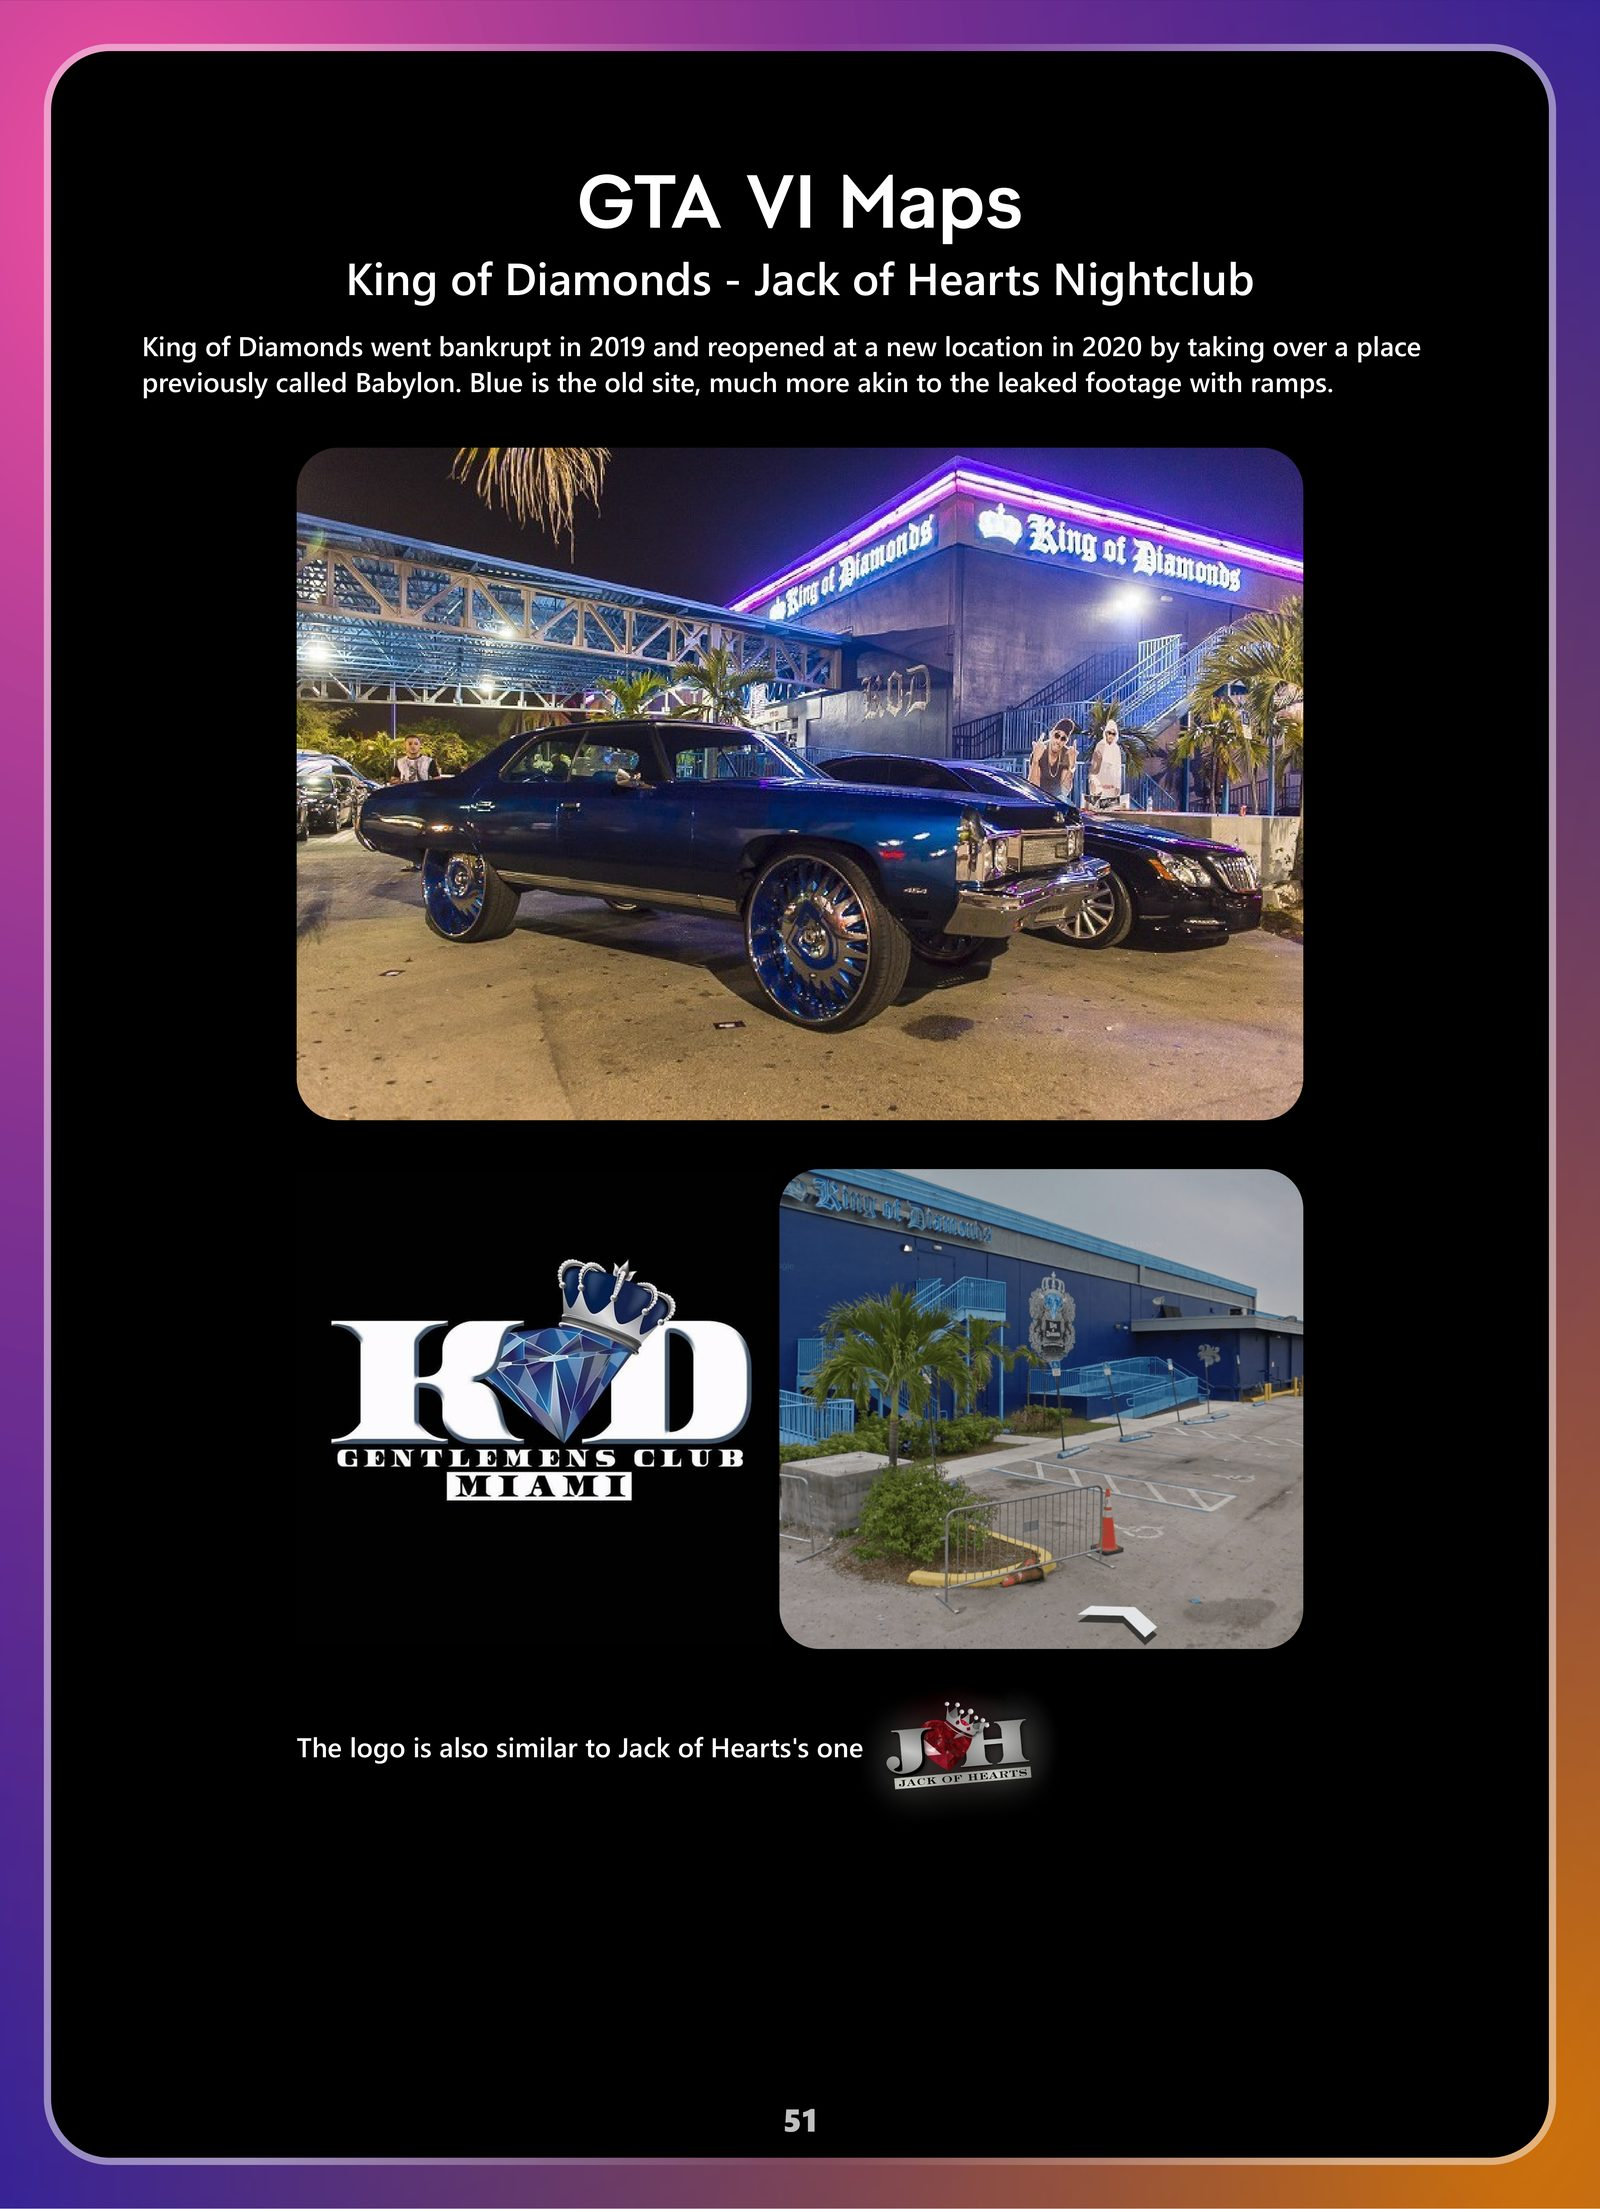
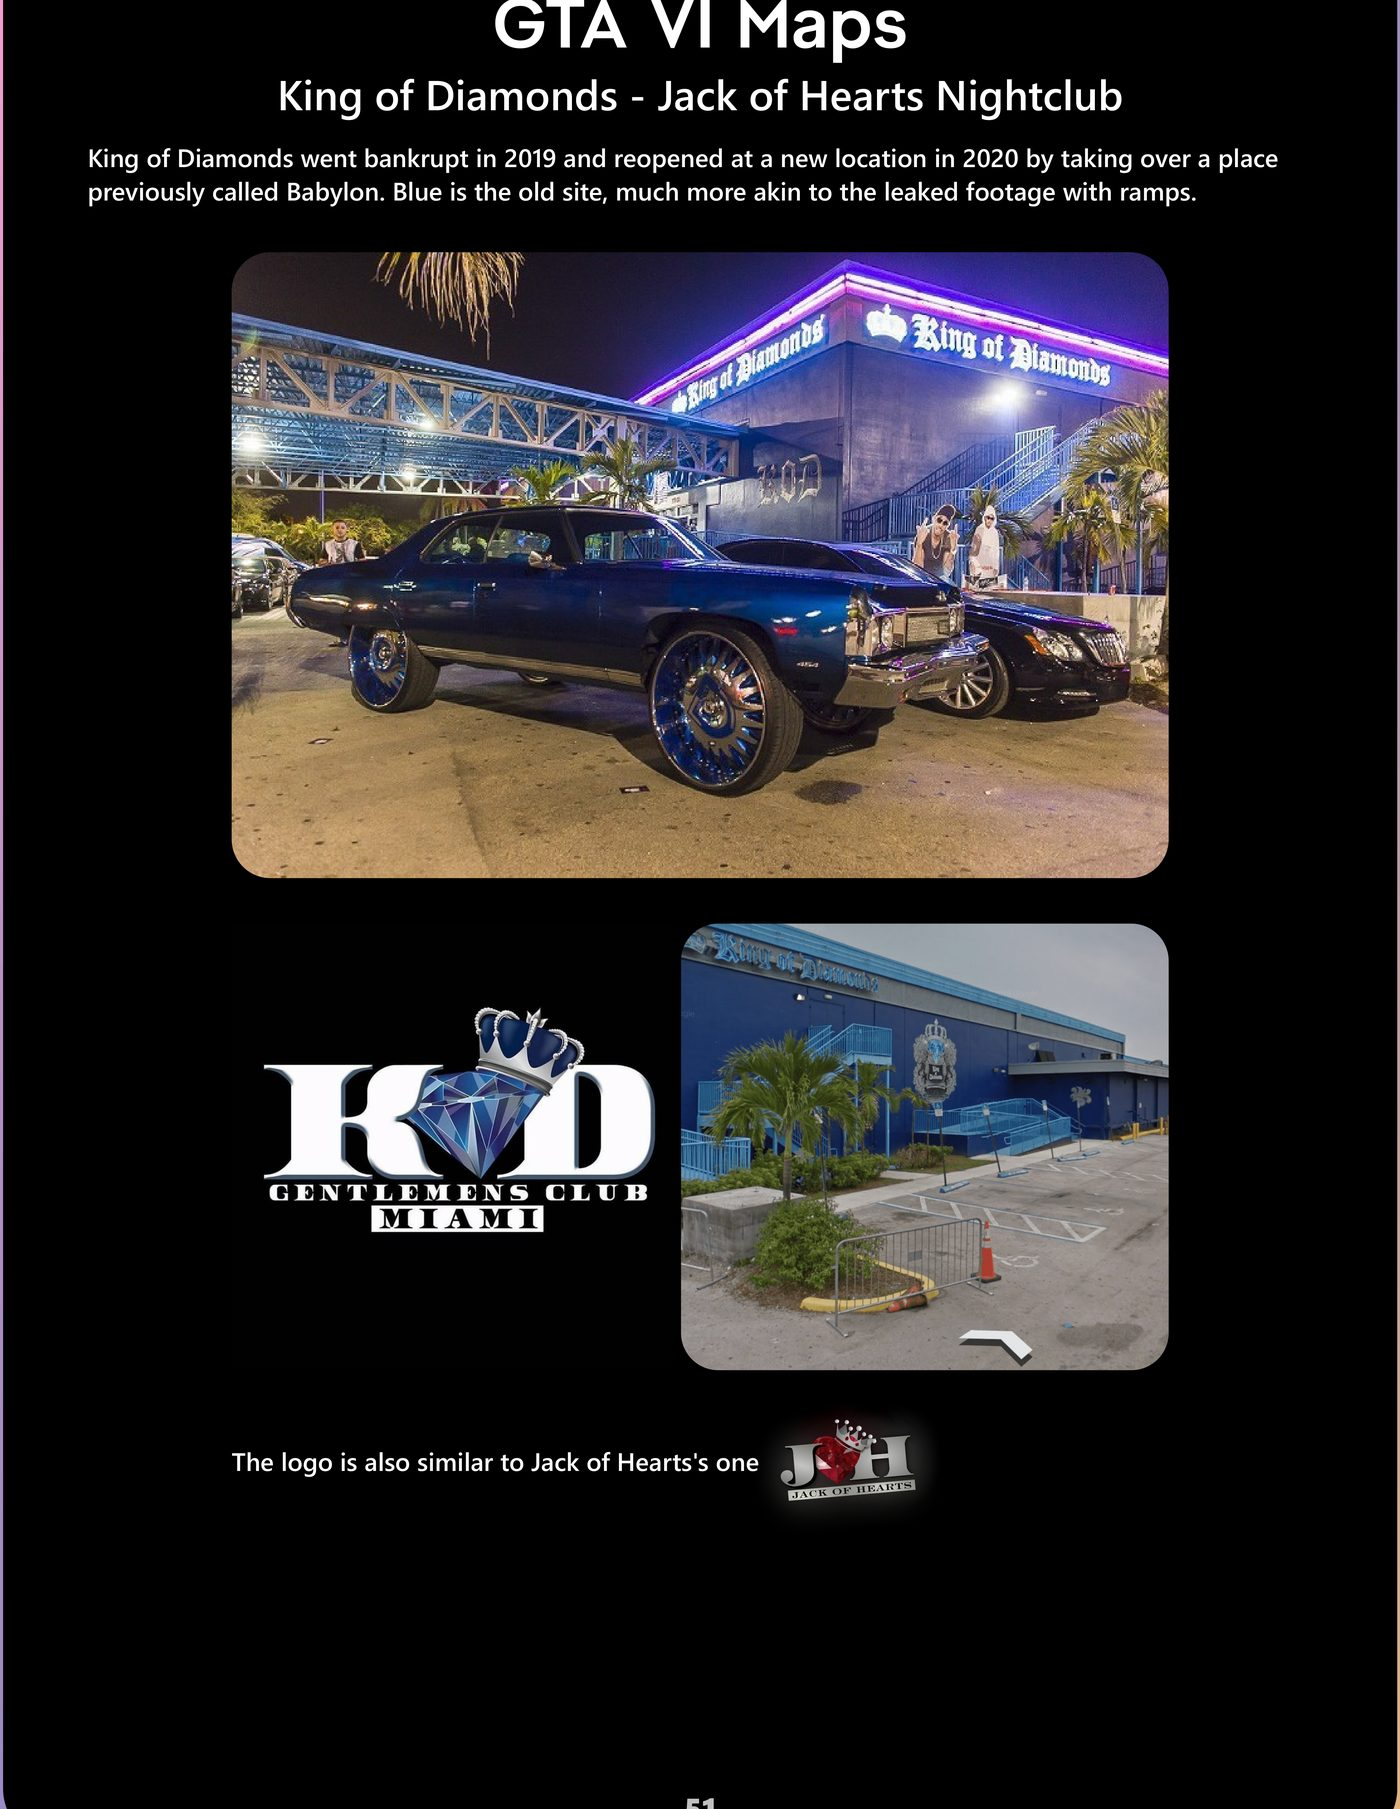
Replace PDF page screenshots with cropped visual content
- Removed 28 full-page PDF screenshots (text-heavy, redundant with MDX)
- Kept 20 properly cropped images: maps, leaked footage, diagrams
- All images cropped to remove PDF chrome (headers, margins, page numbers)
- Added thread-specific CSS: styled images with hover effects, callout
  blockquotes, teal-highlighted list items, styled code blocks
- Images now feel native to the site, not pasted PDF pages
- Total images: 20 (down from 48), size ~6MB (down from 15MB)

diff --git a/app/globals.css b/app/globals.css
@@ -206,3 +206,44 @@ body {
   background: linear-gradient(90deg, transparent, #2A2A3E 20%, #2A2A3E 80%, transparent);
   margin: 3em 0;
 }
+
+/* Thread images — native to the site, not PDF screenshots */
+.thread-prose img {
+  border-radius: 12px;
+  border: 1px solid #2A2A3E;
+  margin: 1.5em 0;
+  width: 100%;
+  transition: border-color 0.3s;
+}
+
+.thread-prose img:hover {
+  border-color: rgba(0, 206, 209, 0.4);
+}
+
+/* Thread list items — tighter, more styled */
+.thread-prose li {
+  padding-left: 0.25em;
+}
+
+.thread-prose li strong {
+  color: #00CED1;
+}
+
+/* Thread blockquotes — used as callout boxes */
+.thread-prose blockquote {
+  background: rgba(26, 26, 46, 0.6);
+  border-left: 3px solid #FF1493;
+  border-radius: 0 8px 8px 0;
+  padding: 1em 1.25em;
+  margin: 1.5em 0;
+}
+
+/* Thread code — debug references */
+.thread-prose code {
+  font-size: 0.85em;
+  padding: 0.2em 0.5em;
+  border-radius: 4px;
+  background: rgba(255, 20, 147, 0.08);
+  color: #FF1493;
+  border: 1px solid rgba(255, 20, 147, 0.15);
+}
